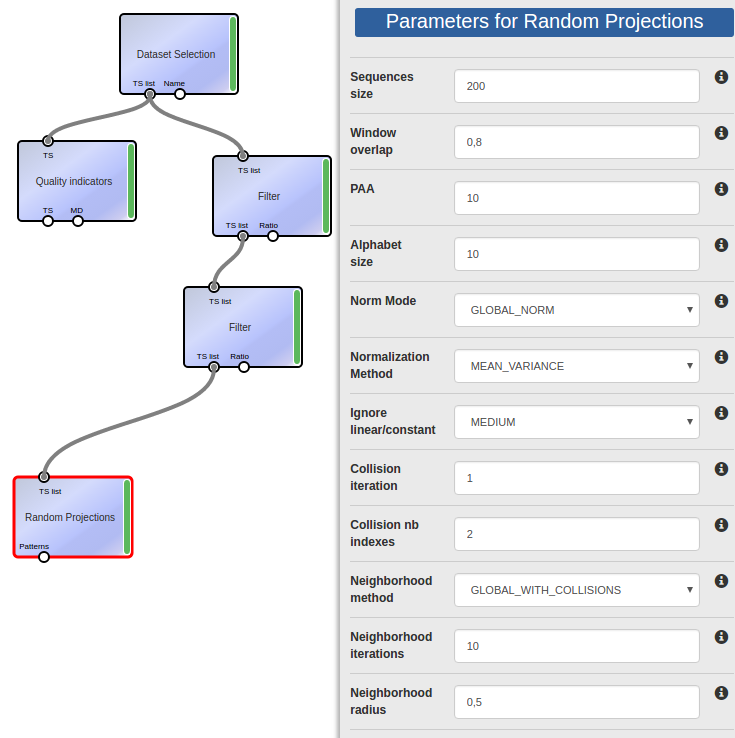
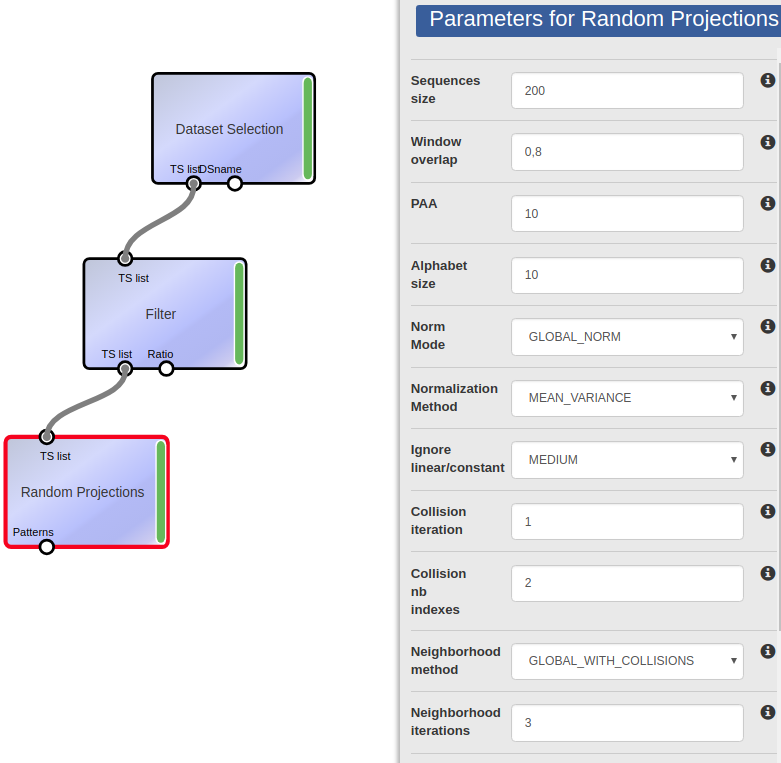
Re-done tuto random projection for a 8GO RAM PC
art #2859

Changed region(s): [[0.0, 0.0, 1.0, 1.0]]

diff --git a/doc/tutorials/tuto_random_projection.md b/doc/tutorials/tuto_random_projection.md
@@ -14,9 +14,10 @@ In some case, the dataset used can be huge. Searching similarities between each 
 This tutorial is a usecase for this operator.
 
 ### Warning
-This tutorial helps understanding the role of the `Random projection` operator. Due to it's complexity, it requires a lot of memory: at least 16 Go of RAM. With a lower value you can reach the limits and get a stack overflow. In this case, the operator will turn red with no result.
+This tutorial helps understanding the role of the `Random projection` operator. Due to it's complexity, it requires a lot of memory: at least 16 Go of RAM for a *normal* usage. At 8 Go of RAM, you can lower the parameter `Neighborhood iterations` to downgrad expected result. With a lower RAM you can reach the limits and get a stack overflow. In this case, the operator will turn red with no result.
+In a sandbox context, try to use this operator on a small dataset.
 
-Try to use this operator with the sandbox on a smaller dataset.
+This tutorial has been performed on a small dataset (only 7 TS), and in a downgraded case (only 8 Go of RAM).
 
 ## Dataset used
 In this tutorial, we use the default dataset `WEBTraffic`, a subset of a dataset proposed on [Kaggle](https://www.kaggle.com/c/web-traffic-time-series-forecasting). Each of these TS represent a number of daily views of a different Wikipedia article, starting from July, 1st, 2015 up until December 31st, 2016.
@@ -24,7 +25,7 @@ The subset include 11989 TS from 7 languages (Deutsch, English, French, Spanish,
 
 The purpose of this tutorial is to extract all identical patterns from this dataset, detecting the links between the different Wikipedia articles.
 
-For pedagogical purpose, we limit the dataset to 7 TS, using the [filter](/doc/operators/filter.html) operator. We search TS corresponding to Russian pages (`languages` *like* `ru`), and with a name begining with A (`metric` *like* `A*`). Note that the *name* of the TS correspond to its metadata `metric`.
+For pedagogical purpose, we limit the dataset to 7 TS, using the [filter](/doc/operators/filter.html) operator. We search TS corresponding to Russian pages (`language` *like* `ru`), and with a name begining with A (`metric` *like* `A*`). Note that the *name* of the TS correspond to its metadata `metric`.
 
 We obtains 7 TS: *ABBA_ru, Adobe-Flash_ru, Adidas_ru, Airbus-A320_ru, Alekseev_ru, Android_ru* and *Apple_ru*. A simple view on these TS (visualization option `Curve`) show identical behaviours in curves. These TS contains 800 points (metadata `qual_nb_points`).
 
@@ -44,8 +45,6 @@ Here, in order to obtain fast results, we limit the matching to very similar pat
 
 ![Alternate Text](/img/tuto_random_projection/params_random_projection.png)
 
-*Note: This workflow contains much more operator than requested: the filtering operation can be performed in one single `Filter`. And the `Quality operator` is not necessary if you choose a default Dataset (like `WEBTraffic`): already calculated.*
-
 ## Results
 
 We observe the identical `current pattern definition` for both examples and the similarity of the patterns.
@@ -53,11 +52,11 @@ We observe the identical `current pattern definition` for both examples and the 
 ![Patterns](/img/tuto_random_projection/patterns.png "A selection of two TS sharing same pattern"){: class="center"}
 
 IKATS provides some information about results:
-- the list of pattern name `Pattern` (e.g. `P1`)
-- the current TS to plot (e.g. `ru_Android`)
+- the list of pattern name `Pattern` (e.g. `P11`)
+- the current TS to plot (e.g. `ABBA_ru`)
 - the `current pattern definition` summarized into *SAX word*, in regexp expression (each SAX word sequence corresponding to this`current pattern definition` expression is associated to current `Pattern`)
 
-![Results](/img/tuto_random_projection/random_projection_ru_Android.png "Some results")
+![Results](/img/tuto_random_projection/random_projection_ru_ABBA.png "Some results"){: class="center"}
 
 Now, you are able to perform pattern matching without any model of pattern.
 
